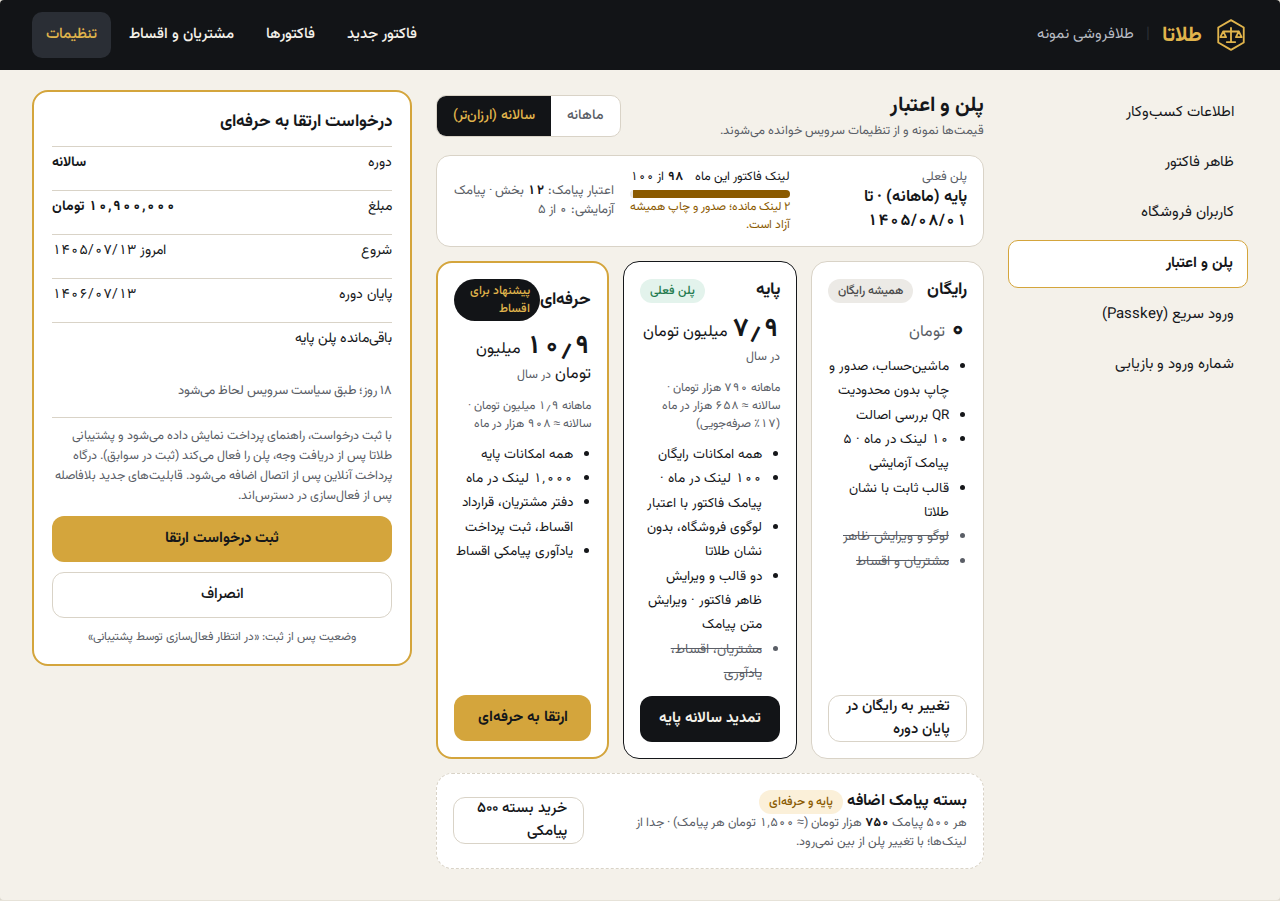
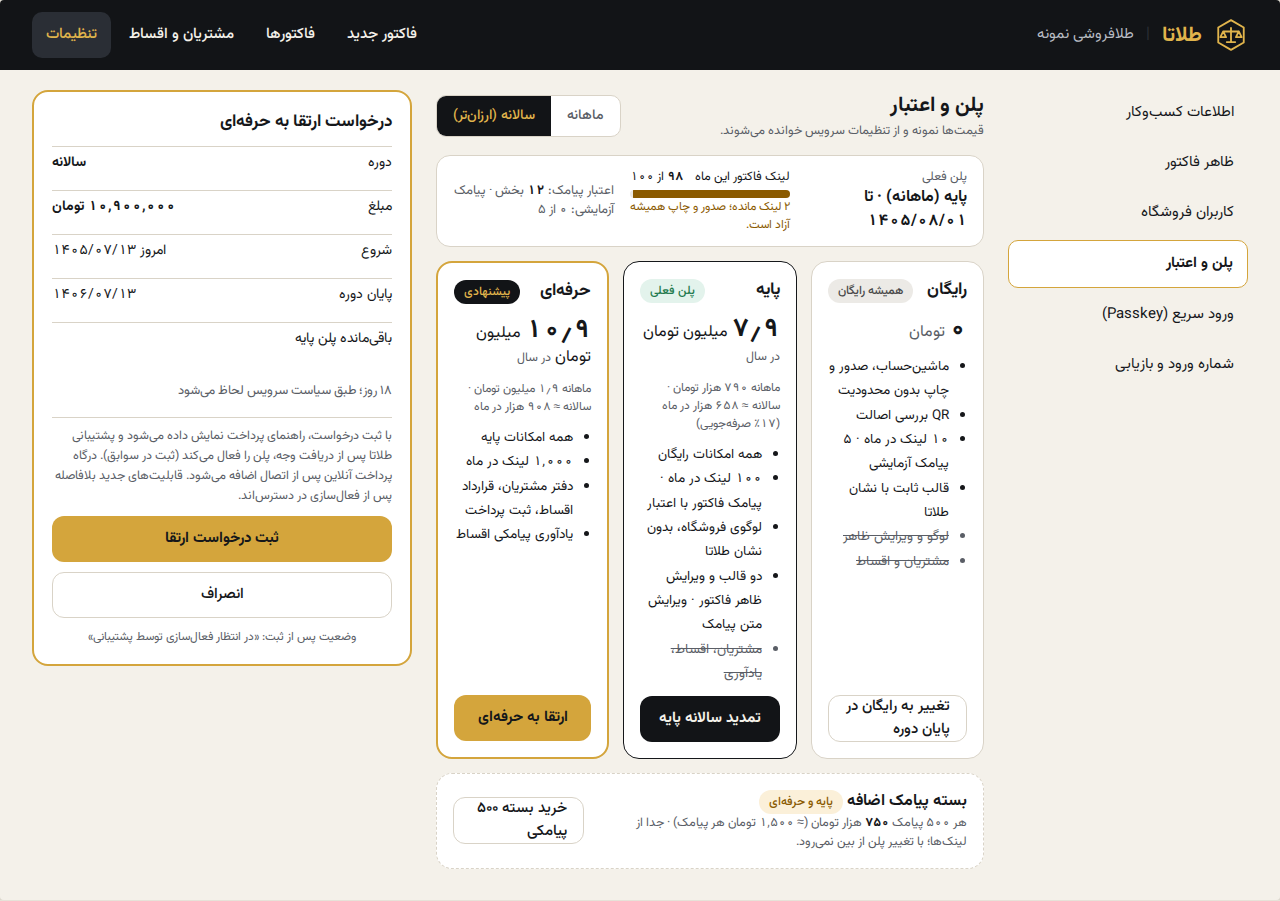
Tidy the plan badge on the desktop plan board and refresh screenshots
Claude-Session: https://claude.ai/code/session_01ADrJuywmrmBNeburBNg1JQ

Changed region(s): [[0.3438, 0.3108, 0.4688, 0.6215]]

diff --git a/docs/design/proposed/preview.html b/docs/design/proposed/preview.html
@@ -1927,7 +1927,7 @@ figcaption .dim{direction:ltr;unicode-bidi:isolate;font-size:11px}
           <a href="#" onclick="return false" class="btn btn-dark" style="margin-top: auto">تمدید سالانه پایه</a>
         </section>
         <section class="plan" aria-label="حرفهای" style="border: 2px solid #D4A53C">
-          <div style="display: flex; justify-content: space-between; align-items: center"><strong style="font-size: 17px">حرفهای</strong><span class="badge" style="background: #121417; color: #E0B44C">پیشنهاد برای اقساط</span></div>
+          <div style="display: flex; justify-content: space-between; align-items: center"><strong style="font-size: 17px">حرفهای</strong><span class="badge" style="background: #121417; color: #E0B44C; white-space: nowrap">پیشنهادی</span></div>
           <div class="price"><span class="big num">۱۰٫۹</span> <span>میلیون تومان</span> <span style="color: #5A5E66; font-size: 12.5px">در سال</span></div>
           <div style="font-size: 12px; color: #5A5E66">ماهانه <span class="num">۱٫۹</span> میلیون تومان · سالانه ≈ <span class="num">۹۰۸</span> هزار در ماه</div>
           <ul><li>همه امکانات پایه</li><li><span class="num">۱٬۰۰۰</span> لینک در ماه</li><li>دفتر مشتریان، قرارداد اقساط، ثبت پرداخت</li><li>یادآوری پیامکی اقساط</li></ul>
